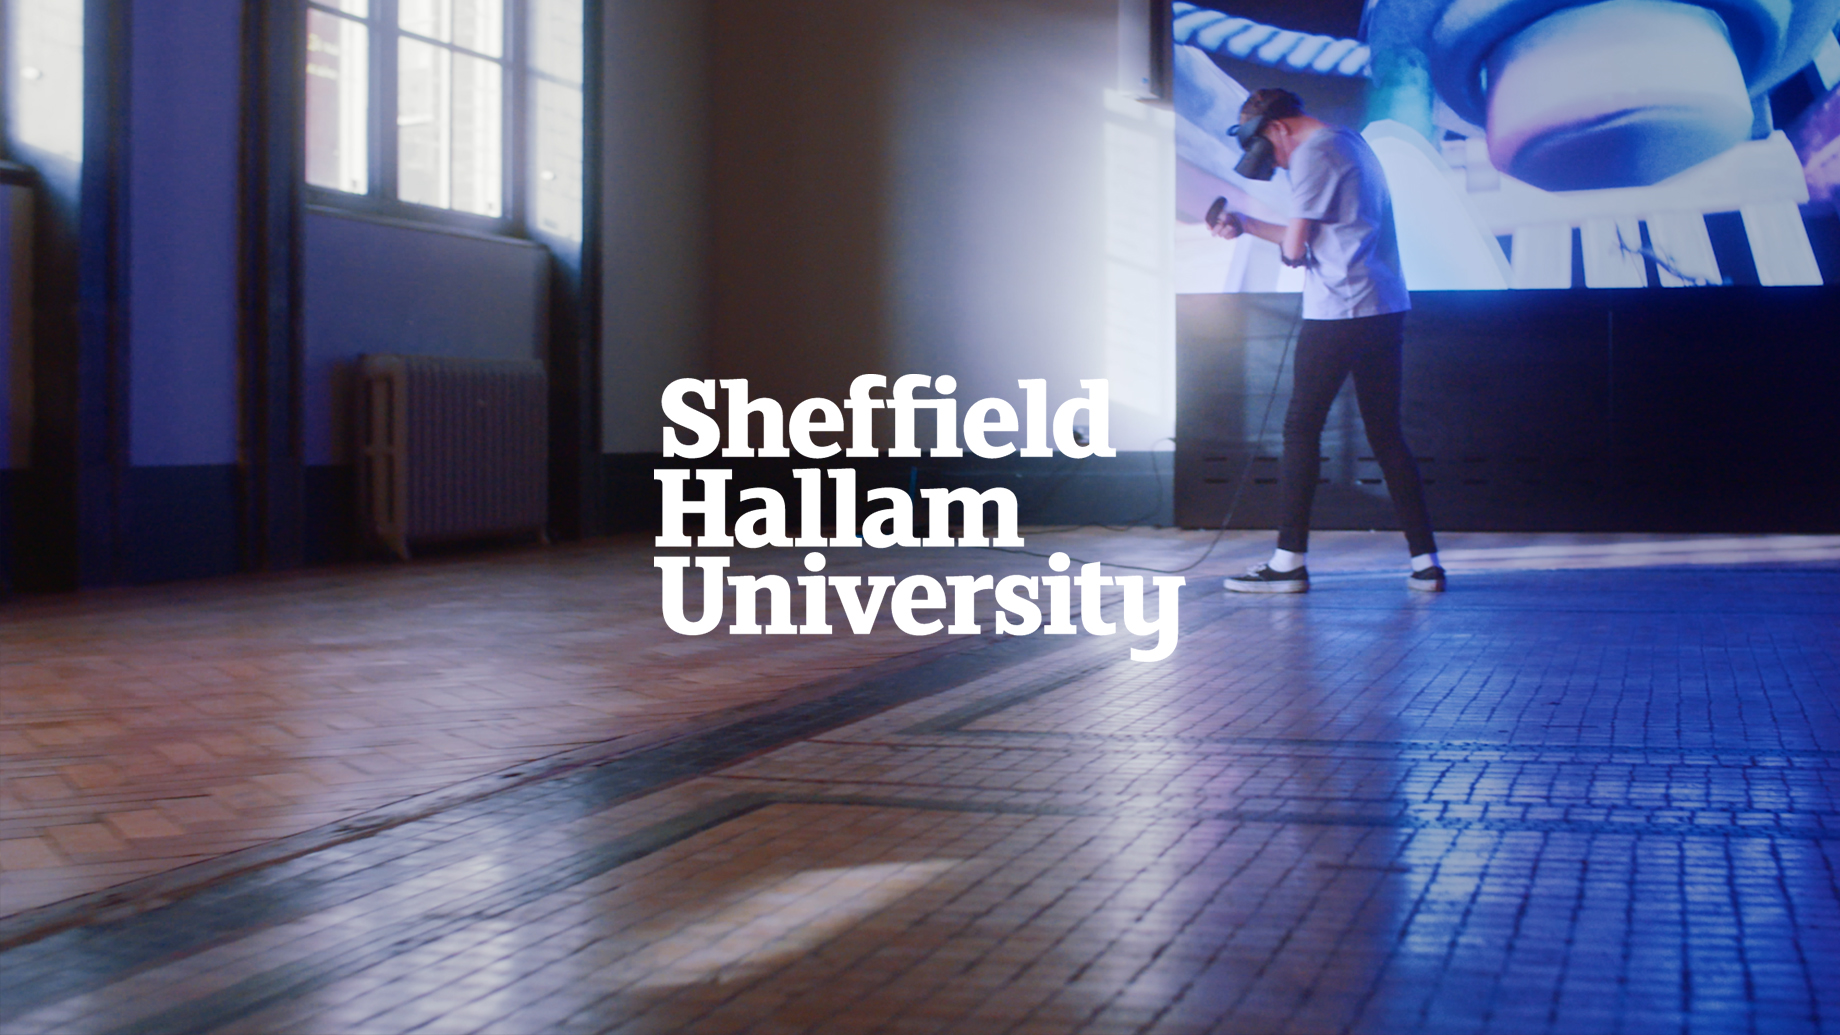
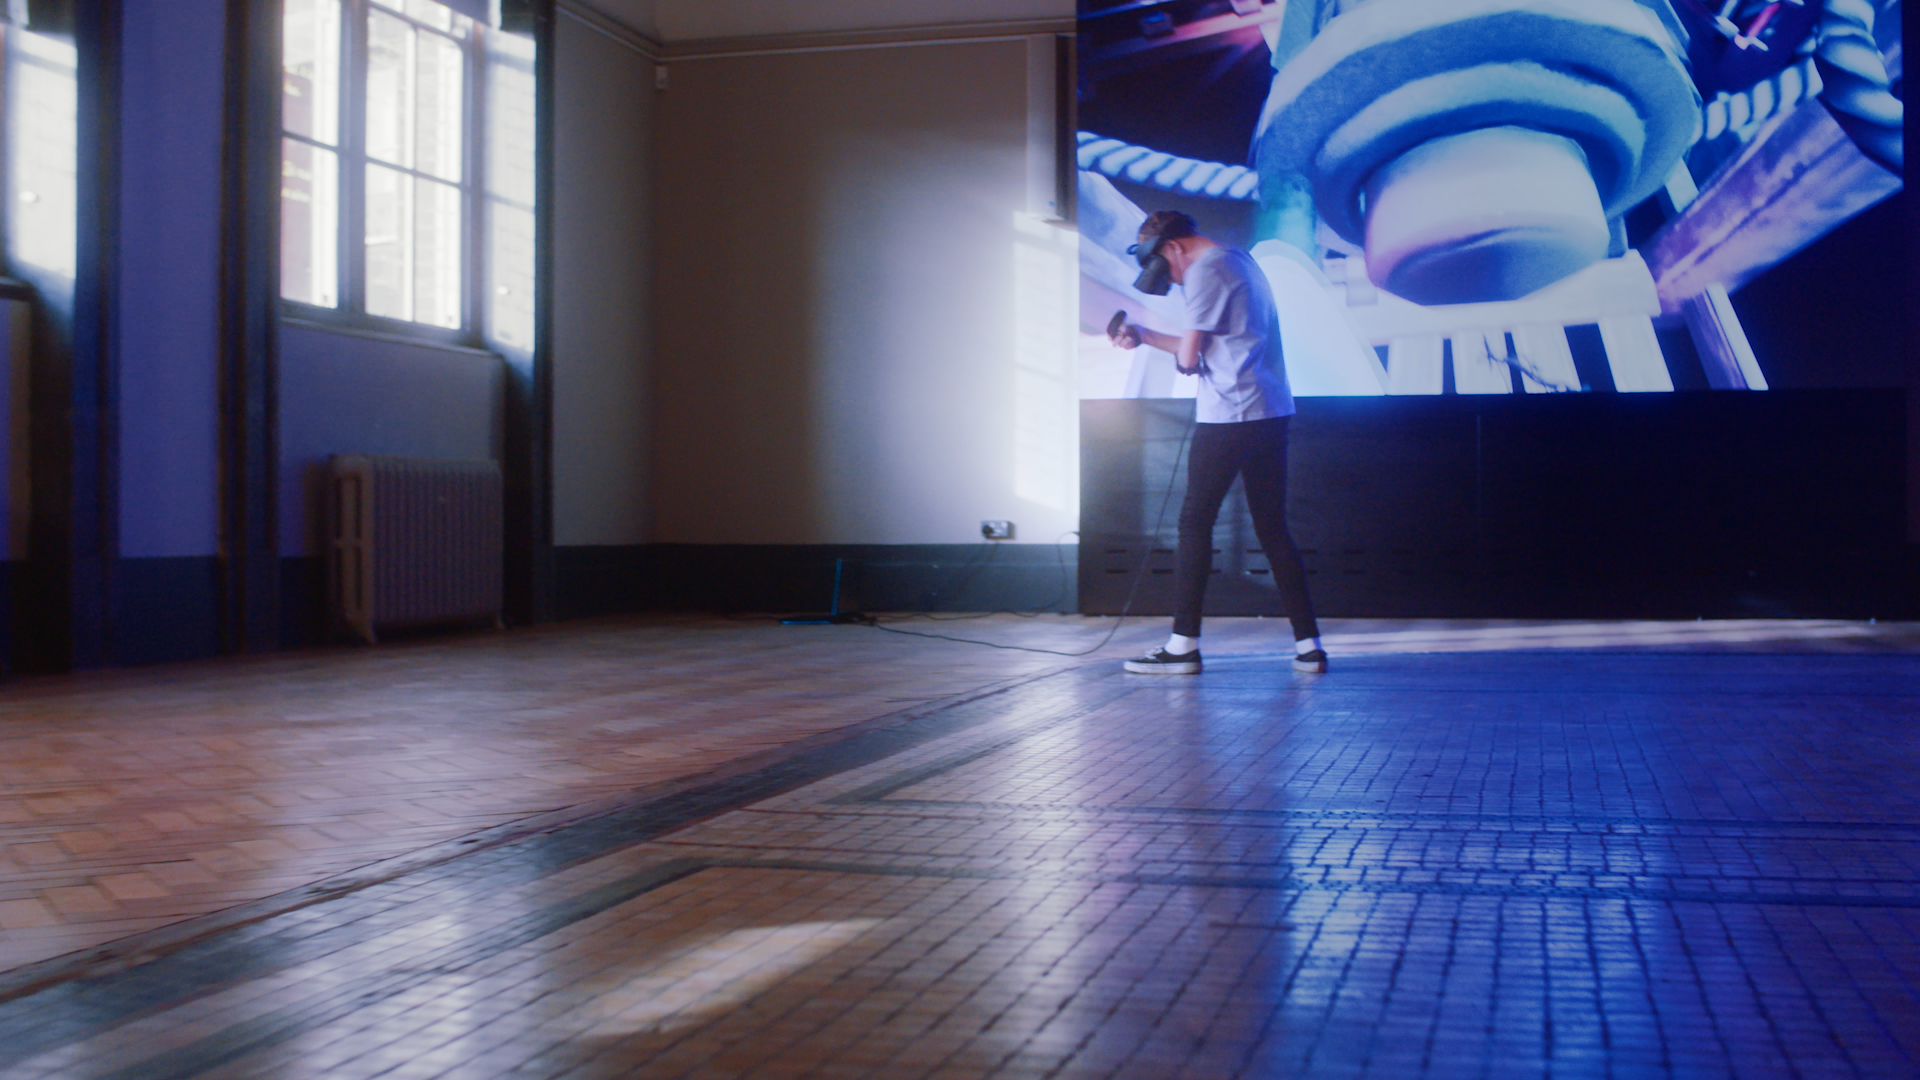
case study headers

diff --git a/layouts/partials/banner.html b/layouts/partials/banner.html
@@ -2,9 +2,14 @@
 {{- $type := (.Params.banner_type ) -}}
 {{- $icon := (.Params.banner_icon ) -}}
 
-{{ $colour := "text-white" }}
+{{ $banner_logo_class := "text-white" }}
 {{ with .Params.banner_logo_class }}
-  {{ $colour = . }}
+  {{ $banner_logo_class = . }}
+{{ end }}
+
+{{ $banner_img_class := "" }}
+{{ with .Params.banner_img_class }}
+  {{ $banner_img_class = . }}
 {{ end }}
 
 {{ if eq $type "standard" }}
@@ -16,7 +21,7 @@
     {{- $actualImg := $src.Resize "640x jpg" -}}
     {{- $alt := ( .Params.banner_img_alt ) -}}
     {{- $dataSizes := "98vw" -}}
-    {{- $imgClass := "w-full h-full object-cover" -}}
+    {{- $imgClass := " w-full h-full object-cover" -}}
     {{- $respSizes := slice "320" "640" "960" "1280" "1600" "1920" -}}
     
     {{- with $img -}}
@@ -37,7 +42,7 @@
 
             <img
               alt="{{ $alt }}"
-              class="{{ $imgClass }}"
+              class="{{ $banner_img_class }}{{ $imgClass }}"
               loading=eager
               sizes="{{ $dataSizes }}"
               src="{{ $actualImg.RelPermalink }}"
@@ -56,7 +61,7 @@
           </picture>
           {{ if $icon }}
             <div class="absolute inset-0 flex items-center justify-center" data-class-on-view="animate-up" data-class-on-view-once>
-              <svg class="w-48 h-24 lg:w-96 lg:h-48 flex-no-shrink opacity-0 {{ $colour }}" role="presentation">
+              <svg class="w-48 h-24 lg:w-96 lg:h-48 flex-no-shrink opacity-0 {{ $banner_logo_class }}" role="presentation">
                 <use xlink:href="#icon-{{ $icon }}"/>
               </svg>
             </div>
@@ -117,7 +122,7 @@
     {{ end }}
     {{ if $icon }}
       <div class="absolute inset-0 flex items-center justify-center" data-class-on-view="animate-up" data-class-on-view-once>
-        <svg class="w-48 h-24 lg:w-96 lg:h-48 flex-no-shrink opacity-0 {{ $colour }}" role="presentation">
+        <svg class="w-48 h-24 lg:w-96 lg:h-48 flex-no-shrink opacity-0 {{ $banner_logo_class }}" role="presentation">
           <use xlink:href="#icon-{{ $icon }}"/>
         </svg>
       </div>

diff --git a/layouts/_default/baseof.html b/layouts/_default/baseof.html
@@ -6,7 +6,7 @@
     {{ partial "head" . }}
   {{ end }}
   
-  <body class="antialiased min-h-screen font-serif text-base leading-normal bg-buff text-indigo auto-rows-auto liga kern">
+  <body class="{{ if .Site.IsServer }}border-debug {{ end }}antialiased min-h-screen font-serif text-base leading-normal bg-buff text-indigo auto-rows-auto liga kern">
     <!-- The Bush Kangaroo -->
     <a href="#content" class="sr-only focus:not-sr-only">Skip to content</a>
 

diff --git a/content/work/sheffield-hallam-university.md b/content/work/sheffield-hallam-university.md
@@ -33,9 +33,12 @@ related_work:
   - rewilding-britain
   - the-rivers-trust
 weight: 4
+key_stat:
+    - 40-percent
 banner_type: standard
-banner_img: images/test-image-landscape.jpg
+banner_img: images/work-shu-header.jpg
 banner_img_alt: Test image
+banner_icon: shu-logo
 toc: true
 teaser:
   title: A sustainable design system to improve the efficiency of digital projects
@@ -91,7 +94,7 @@ We transform lives. We shape our students’ futures, preparing them for whateve
 
   ## User-centred design
 
-  As with all complex organisations, SHU has a varied audience, all of which have differing needs and motivations for interacting with the university online. We ran a user-centred process throughout the project to ensure that design decisions and assumptions were validated with real members of SHU’s target audience. 
+  As with all complex organisations, SHU has a varied audience, all of which have differing needs and motivations for interacting with the university online. We ran a user-centred process throughout to ensure that design decisions and assumptions were validated with real members of SHU’s target audience. 
 
   </div>
 
@@ -108,7 +111,7 @@ We transform lives. We shape our students’ futures, preparing them for whateve
 
   ## Accessible and performant
 
-  SHU’s need for a highly-accessible web presence aligned with our team’s value of delivering for everyone.All of the components and templates meet the AAA of WCAG 2.1 and are designed following the principles of progressive enhancement; that means starting with the minimal, accessible design, and then improving the experience along with the capability of the user’s browser, technology or preferences.
+  SHU’s need for a highly-accessible web presence aligned with our team’s value of delivering for everyone. All of the components and templates meet the AAA of WCAG 2.1 and are designed following the principles of progressive enhancement; starting with the minimal, accessible design, and then improving the experience along with the capability of the user’s browser, technology or preferences.
 
   </div>
 </div>
@@ -119,7 +122,7 @@ We transform lives. We shape our students’ futures, preparing them for whateve
 <div class="w-full grid grid-cols-12 gap-x-2.5 gap-y-6 lg:gap-6 xl:gap-8">
   <div class="prose col-span-full lg:col-span-8 lg:col-start-5">
 
-  ## Multi-platform usage
+  ## Business-as-usual support
 
   As part of supporting the regular projects that SHU’s digital experiences team needed to deliver, we designed and created a hub for all of their Clearing content which was launched a few weeks before the clearing window opened in the UK. Together we devised useful components such as a “self-selection” feature which would help to surface more relevant content and a pre-application process which helped SHU to fill 40% of their places before clearing began.
 

diff --git a/content/work/nottingham-trent-university.md b/content/work/nottingham-trent-university.md
@@ -28,8 +28,10 @@ related_work:
   - jackson-crane
 weight: 9
 banner_type: standard
-banner_img: images/work-ntu-bonnington.jpg
-banner_img_alt: Bonnington Gallery
+banner_img: images/work-ntu-brand-image.jpg
+banner_img_alt: Two students walk down a cobbled street
+banner_icon: ntu-logo
+banner_img_class: brightness-75
 toc: true
 teaser:
   title: A user-centred realignment of the University of the Year’s website
@@ -45,7 +47,7 @@ teaser:
       alt: The Bonnington Gallery
 ---
 
-{{< workquote source="Nottingham Trent University" logo="logo-square-ntu" img="images/work-ntu-brand-image.jpg" alt="Two students walk down a cobbled street" >}}
+{{< workquote source="Nottingham Trent University" logo="logo-square-ntu" img="images/work-ntu-bonnington.jpg" alt="Bonnington Gallery" >}}
 We are driven by our determination to become the University of the future. By addressing the themes within our current University strategy, University, reimagined, we are tackling social injustice, valuing ideas and creating opportunities.
 {{</ workquote >}}
 

diff --git a/content/work/backlit.md b/content/work/backlit.md
@@ -28,7 +28,8 @@ weight: 7
 banner_type: standard
 banner_img: images/work-backlit-interior.png
 banner_img_alt: Interior of an old industrial building, now an art gallery
-banner_logo_class: text-black
+banner_logo_class: text-indigo
+banner_icon: backlit-logo
 toc: true
 ---
 
@@ -60,7 +61,7 @@ Being LGBTQ+ and Female-led is part of our ongoing foundations as a cultural org
 
   Backlit is more than a gallery and is home to local artists to develop their skills. They hire out event space and sell studio memberships to enable them to fund the gallery. This was important to make clear on the new site to help them continue to run the organisation and guarantee the funding they need.
 
-  ## Historic Archive
+  ## Historic archive
 
   Backlit and Kind have an established partnership. Before their website redesign project, we worked collaboratively to build the Samuel Morley Archive, an interactive and immersive online exhibition.
 

diff --git a/content/work/jackson-crane.md b/content/work/jackson-crane.md
@@ -25,6 +25,7 @@ weight: 8
 banner_type: standard
 banner_img: images/work-jackson-crane-p80-2.jpg
 banner_img_alt: Rendered image of a biophilic house
+banner_icon: jackson-crane-logo
 ---
 
 {{< workquote author="Jackson-Crane Mission" logo="logo-square-jackson-crane" source="Jackson-Crane Mission" img="images/work-jackson-crane-p80.jpg" alt="Rendered image of a biophilic house" >}}

diff --git a/content/work/rewilding-britain.md b/content/work/rewilding-britain.md
@@ -24,6 +24,7 @@ banner_images:
     alt: A landscape with hills and mountains in the back
   - img: images/work-rewilding-britain-carousel-4.jpg
     alt: A rewilding meadow in late Summer. Grasses and wild flowers seeding. Oak tree and a rough Hazel hedge field boundary
+banner_icon: rwb-logo
 key_stat:
   - 149-percent
 description: Big thinking for a cause we really care about

diff --git a/content/work/the-rivers-trust.md b/content/work/the-rivers-trust.md
@@ -29,6 +29,7 @@ weight: 6
 banner_type: standard
 banner_img: images/gary-ellis-5vf16lnz-gi-unsplash.jpg
 banner_img_alt: A river in the Scottish Higlands
+banner_icon: rt-logo
 teaser:
   title: Helping to build awareness of the state of rivers
   description: A clear online presence for the Rivers Trust which articulates their work and incites engagement and action.

diff --git a/content/work/garden-organic.md b/content/work/garden-organic.md
@@ -24,8 +24,9 @@ related_work:
   - the-rivers-trust
 weight: 5
 banner_type: standard
-banner_img: images/test-image-landscape.jpg
+banner_img: images/work-garden-organic-header.jpg
 banner_img_alt: Test image
+banner_icon: garden-organic-logo
 toc: true
 teaser:
   title: Website redesign and online member portal

diff --git a/content/work/vanda.md b/content/work/vanda.md
@@ -38,6 +38,7 @@ toc: true
 banner_type: standard
 banner_img: images/Work-VA-Header-BG.jpg
 banner_img_alt: The Ancient City of Petra, Jordan
+banner_icon: va-logo
 ---
 
 
